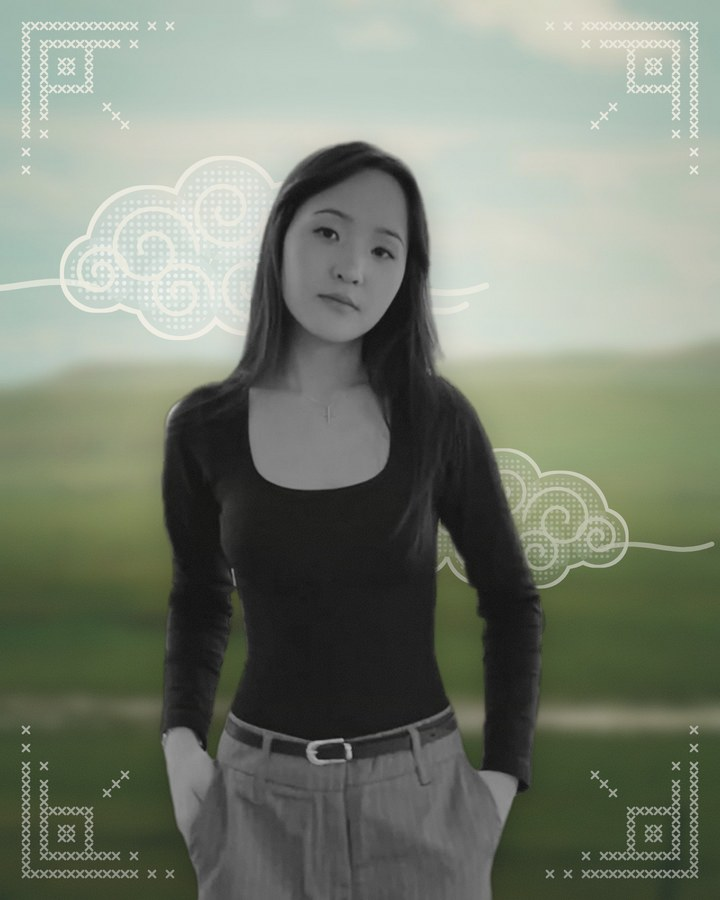
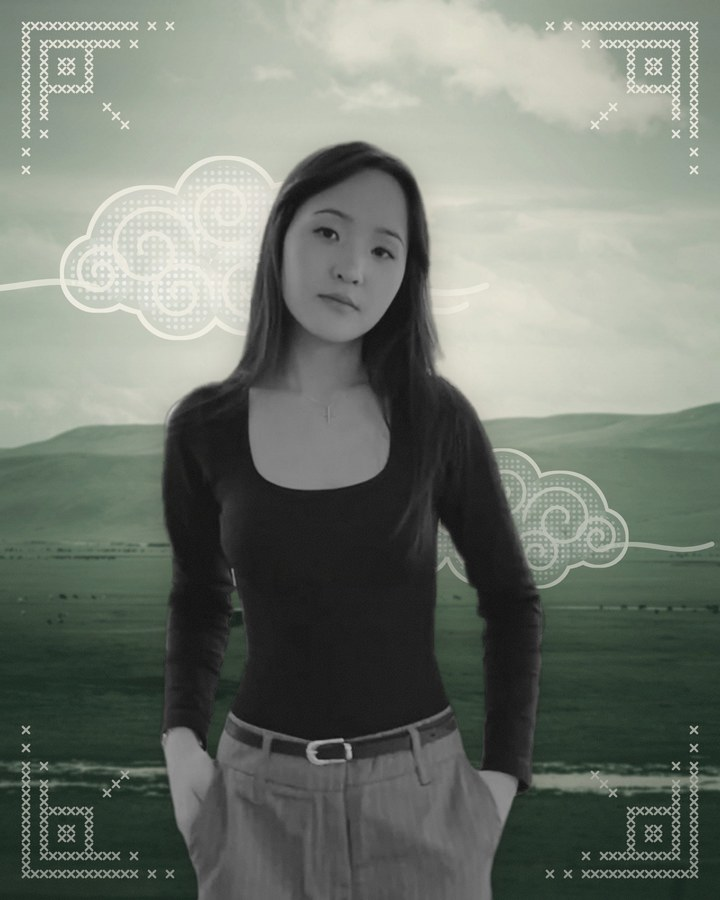
Team photos: duotone film-style steppe background instead of heavy blur
Claude-Session: https://claude.ai/code/session_015w2YeaPuoH2UidzmstFP66

diff --git a/index.html b/index.html
@@ -342,49 +342,49 @@
       </div>
       <div class="marquee" data-reveal>
         <a class="member" href="member.html?m=bayarmagnai">
-          <div class="member__photo"><img src="assets/img/team-bayarmagnai.jpg?v=3" alt="Bayarmagnai Usukhgerel, Founder of GRIT" loading="lazy"></div>
+          <div class="member__photo"><img src="assets/img/team-bayarmagnai.jpg?v=4" alt="Bayarmagnai Usukhgerel, Founder of GRIT" loading="lazy"></div>
           <p class="member__name">Bayarmagnai Usukhgerel</p>
           <p class="member__school">Founder of GRIT</p>
         </a>
         <a class="member" href="member.html?m=namuunbayar">
-          <div class="member__photo"><img src="assets/img/team-1.jpg?v=3" alt="M. Namuunbayar, Graphic Designer, GRIT EDU program" loading="lazy"></div>
+          <div class="member__photo"><img src="assets/img/team-1.jpg?v=4" alt="M. Namuunbayar, Graphic Designer, GRIT EDU program" loading="lazy"></div>
           <p class="member__name">M. Namuunbayar</p>
           <p class="member__school">Graphic Designer, GRIT EDU program</p>
         </a>
         <a class="member" href="member.html?m=anar">
-          <div class="member__photo"><img src="assets/img/team-2.jpg?v=3" alt="B. Anar, Teacher, GRIT EDU program" loading="lazy"></div>
+          <div class="member__photo"><img src="assets/img/team-2.jpg?v=4" alt="B. Anar, Teacher, GRIT EDU program" loading="lazy"></div>
           <p class="member__name">B. Anar</p>
           <p class="member__school">Teacher, GRIT EDU program</p>
         </a>
         <a class="member" href="member.html?m=munkhdalai">
-          <div class="member__photo"><img src="assets/img/team-3.jpg?v=3" alt="B. Munkhdalai, Teacher, GRIT EDU program" loading="lazy"></div>
+          <div class="member__photo"><img src="assets/img/team-3.jpg?v=4" alt="B. Munkhdalai, Teacher, GRIT EDU program" loading="lazy"></div>
           <p class="member__name">B. Munkhdalai</p>
           <p class="member__school">Teacher, GRIT EDU program</p>
         </a>
         <a class="member" href="member.html?m=enkhgerel">
-          <div class="member__photo"><img src="assets/img/team-4.jpg?v=3" alt="O. Enkhgerel, Manager, GRIT EDU program" loading="lazy"></div>
+          <div class="member__photo"><img src="assets/img/team-4.jpg?v=4" alt="O. Enkhgerel, Manager, GRIT EDU program" loading="lazy"></div>
           <p class="member__name">O. Enkhgerel</p>
           <p class="member__school">Manager, GRIT EDU program</p>
         </a>
         <a class="member" href="member.html?m=tulga">
-          <div class="member__photo"><img src="assets/img/team-5.jpg?v=3" alt="B. Tulga, Teacher, GRIT EDU program" loading="lazy"></div>
+          <div class="member__photo"><img src="assets/img/team-5.jpg?v=4" alt="B. Tulga, Teacher, GRIT EDU program" loading="lazy"></div>
           <p class="member__name">B. Tulga</p>
           <p class="member__school">Teacher, GRIT EDU program</p>
         </a>
         <!-- hidden for now
         <a class="member" href="member.html?m=batzorigt">
-          <div class="member__photo"><img src="assets/img/team-batzorigt.jpg?v=3" alt="G. Batzorigt, Teacher, GRIT EDU program" loading="lazy"></div>
+          <div class="member__photo"><img src="assets/img/team-batzorigt.jpg?v=4" alt="G. Batzorigt, Teacher, GRIT EDU program" loading="lazy"></div>
           <p class="member__name">G. Batzorigt</p>
           <p class="member__school">Teacher, GRIT EDU program</p>
         </a>
         -->
         <a class="member" href="member.html?m=nomin">
-          <div class="member__photo"><img src="assets/img/team-nomin.jpg?v=3" alt="B. Nomin, Teacher, GRIT EDU program" loading="lazy"></div>
+          <div class="member__photo"><img src="assets/img/team-nomin.jpg?v=4" alt="B. Nomin, Teacher, GRIT EDU program" loading="lazy"></div>
           <p class="member__name">B. Nomin</p>
           <p class="member__school">Teacher, GRIT EDU program</p>
         </a>
         <a class="member" href="member.html?m=namuun">
-          <div class="member__photo"><img src="assets/img/team-namuun.jpg?v=3" alt="J. Namuun, Teacher, GRIT EDU program" loading="lazy"></div>
+          <div class="member__photo"><img src="assets/img/team-namuun.jpg?v=4" alt="J. Namuun, Teacher, GRIT EDU program" loading="lazy"></div>
           <p class="member__name">J. Namuun</p>
           <p class="member__school">Teacher, GRIT EDU program</p>
         </a>

diff --git a/js/team.js b/js/team.js
@@ -4,63 +4,63 @@ const TEAM = {
   bayarmagnai: {
     name: "Bayarmagnai Usukhgerel",
     role: "Founder of GRIT",
-    photo: "assets/img/team-bayarmagnai.jpg?v=3",
+    photo: "assets/img/team-bayarmagnai.jpg?v=4",
     responsibilities: "Program lead: finance, organization, university application classes",
     bio: [],
   },
   namuunbayar: {
     name: "M. Namuunbayar",
     role: "Graphic Designer",
-    photo: "assets/img/team-1.jpg?v=3",
+    photo: "assets/img/team-1.jpg?v=4",
     responsibilities: "Design and content",
     bio: [],
   },
   anar: {
     name: "B. Anar",
     role: "Teacher",
-    photo: "assets/img/team-2.jpg?v=3",
+    photo: "assets/img/team-2.jpg?v=4",
     responsibilities: "Teaching",
     bio: [],
   },
   munkhdalai: {
     name: "B. Munkhdalai",
     role: "English Teacher",
-    photo: "assets/img/team-3.jpg?v=3",
+    photo: "assets/img/team-3.jpg?v=4",
     responsibilities: "English, country information",
     bio: [],
   },
   enkhgerel: {
     name: "O. Enkhgerel",
     role: "Program Manager",
-    photo: "assets/img/team-4.jpg?v=3",
+    photo: "assets/img/team-4.jpg?v=4",
     responsibilities: "Organization, country information",
     bio: [],
   },
   tulga: {
     name: "B. Tulga",
     role: "English Teacher",
-    photo: "assets/img/team-5.jpg?v=3",
+    photo: "assets/img/team-5.jpg?v=4",
     responsibilities: "English, cooking",
     bio: [],
   },
   batzorigt: {
     name: "G. Batzorigt",
     role: "Teacher",
-    photo: "assets/img/team-batzorigt.jpg?v=3",
+    photo: "assets/img/team-batzorigt.jpg?v=4",
     responsibilities: "Teaching",
     bio: [],
   },
   nomin: {
     name: "B. Nomin",
     role: "Teacher",
-    photo: "assets/img/team-nomin.jpg?v=3",
+    photo: "assets/img/team-nomin.jpg?v=4",
     responsibilities: "English, country information",
     bio: [],
   },
   namuun: {
     name: "J. Namuun",
     role: "Teacher",
-    photo: "assets/img/team-namuun.jpg?v=3",
+    photo: "assets/img/team-namuun.jpg?v=4",
     responsibilities: "University applications, country information",
     bio: [],
   },

diff --git a/member.html b/member.html
@@ -57,7 +57,7 @@
 
   <main>
     <section class="container profile" id="profile">
-      <div class="profile__photo" data-reveal><img id="member-photo" src="assets/img/team-1.jpg?v=3" alt=""></div>
+      <div class="profile__photo" data-reveal><img id="member-photo" src="assets/img/team-1.jpg?v=4" alt=""></div>
       <div>
         <p class="eyebrow" data-reveal>GRIT team · GRIT EDU program</p>
         <h1 class="profile__name" id="member-name" data-reveal>M. Namuunbayar</h1>
